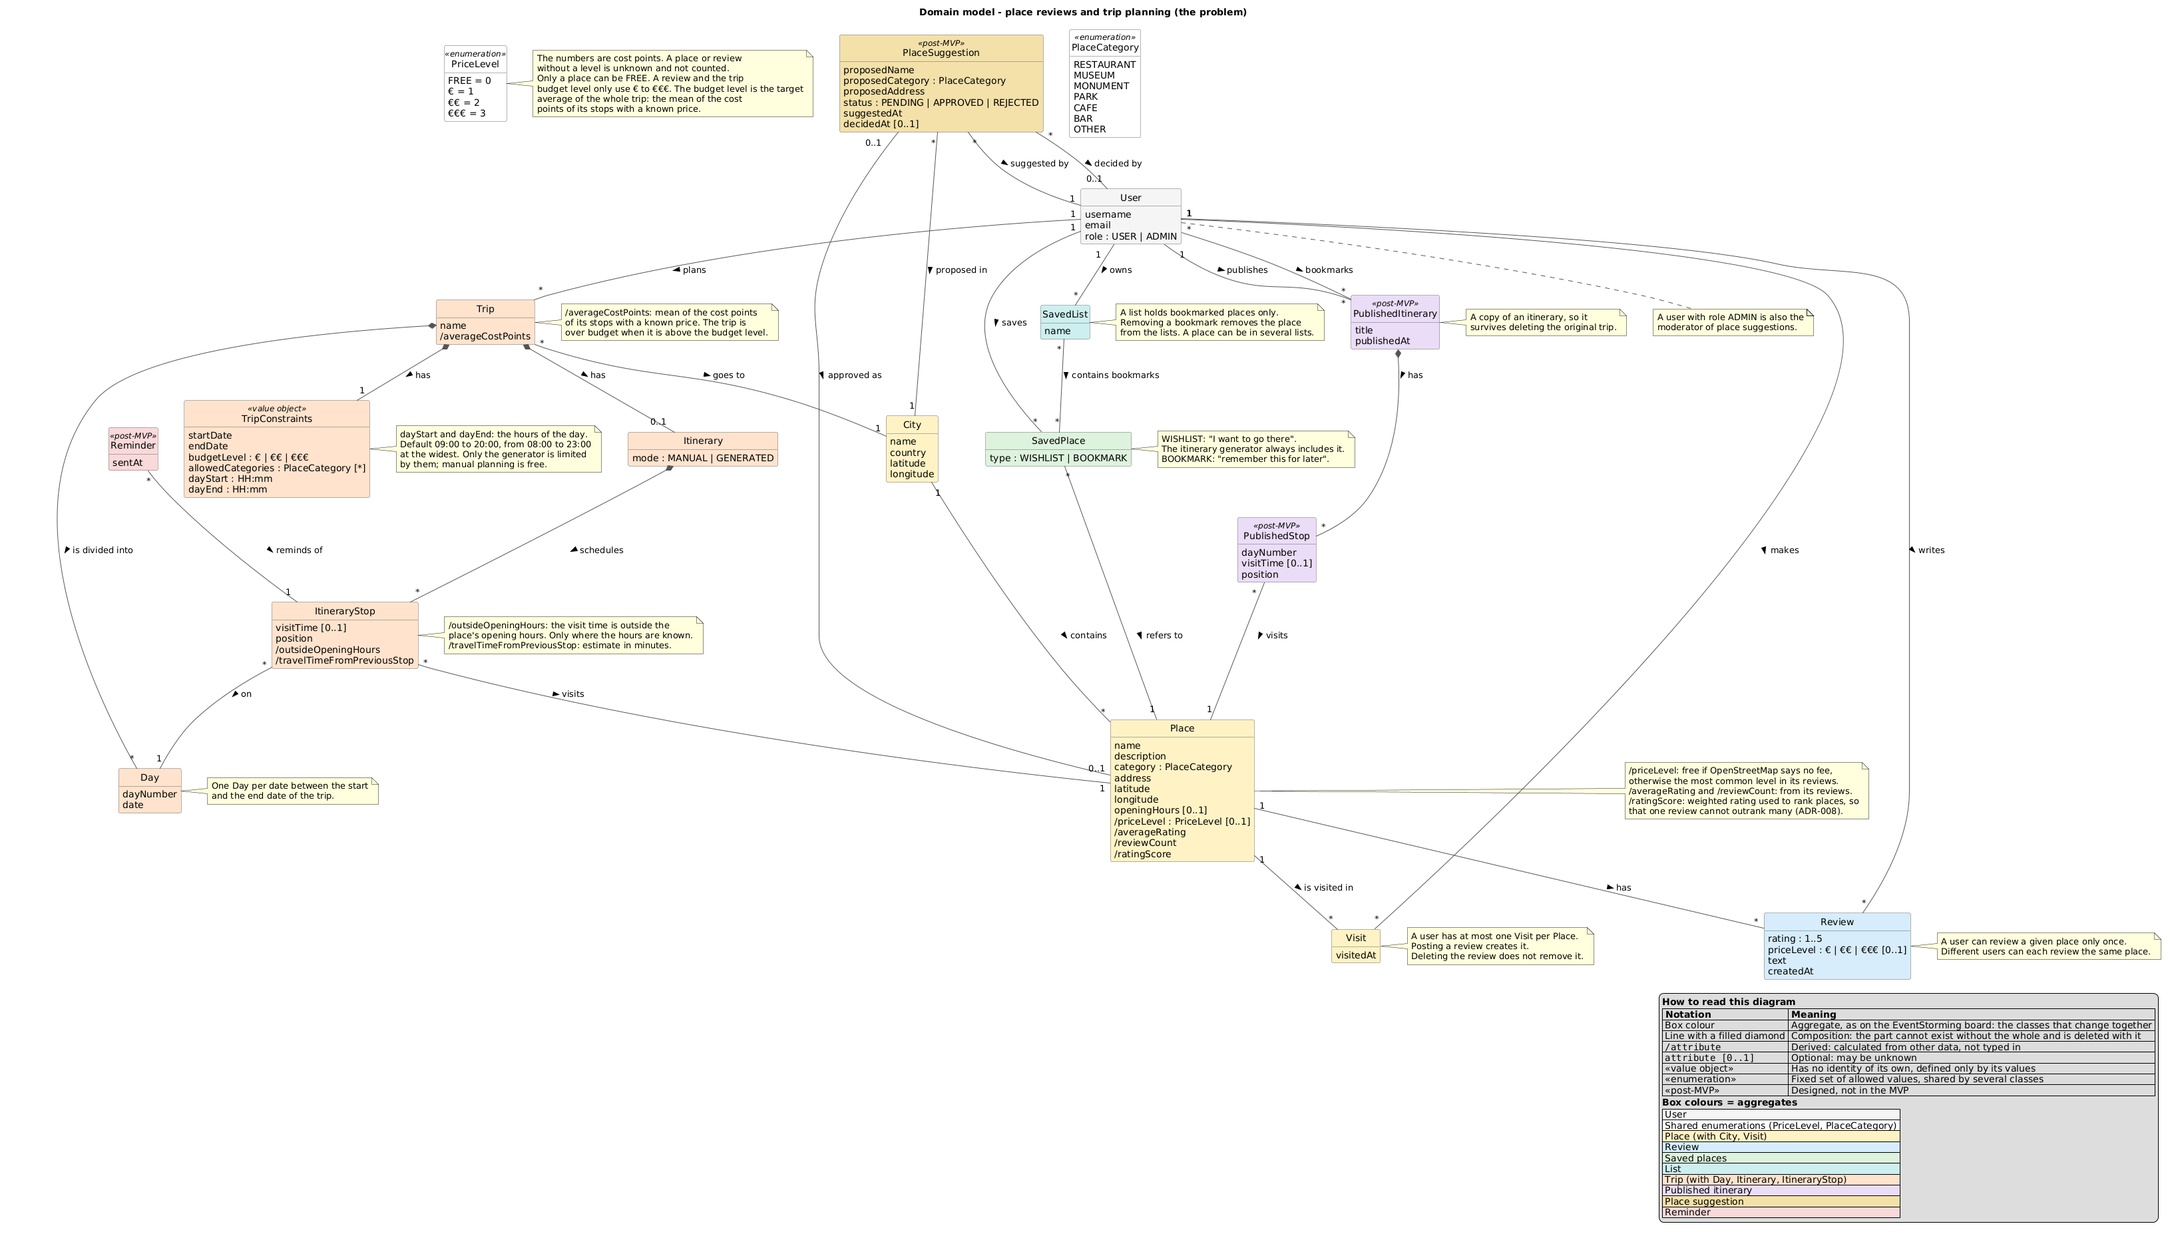
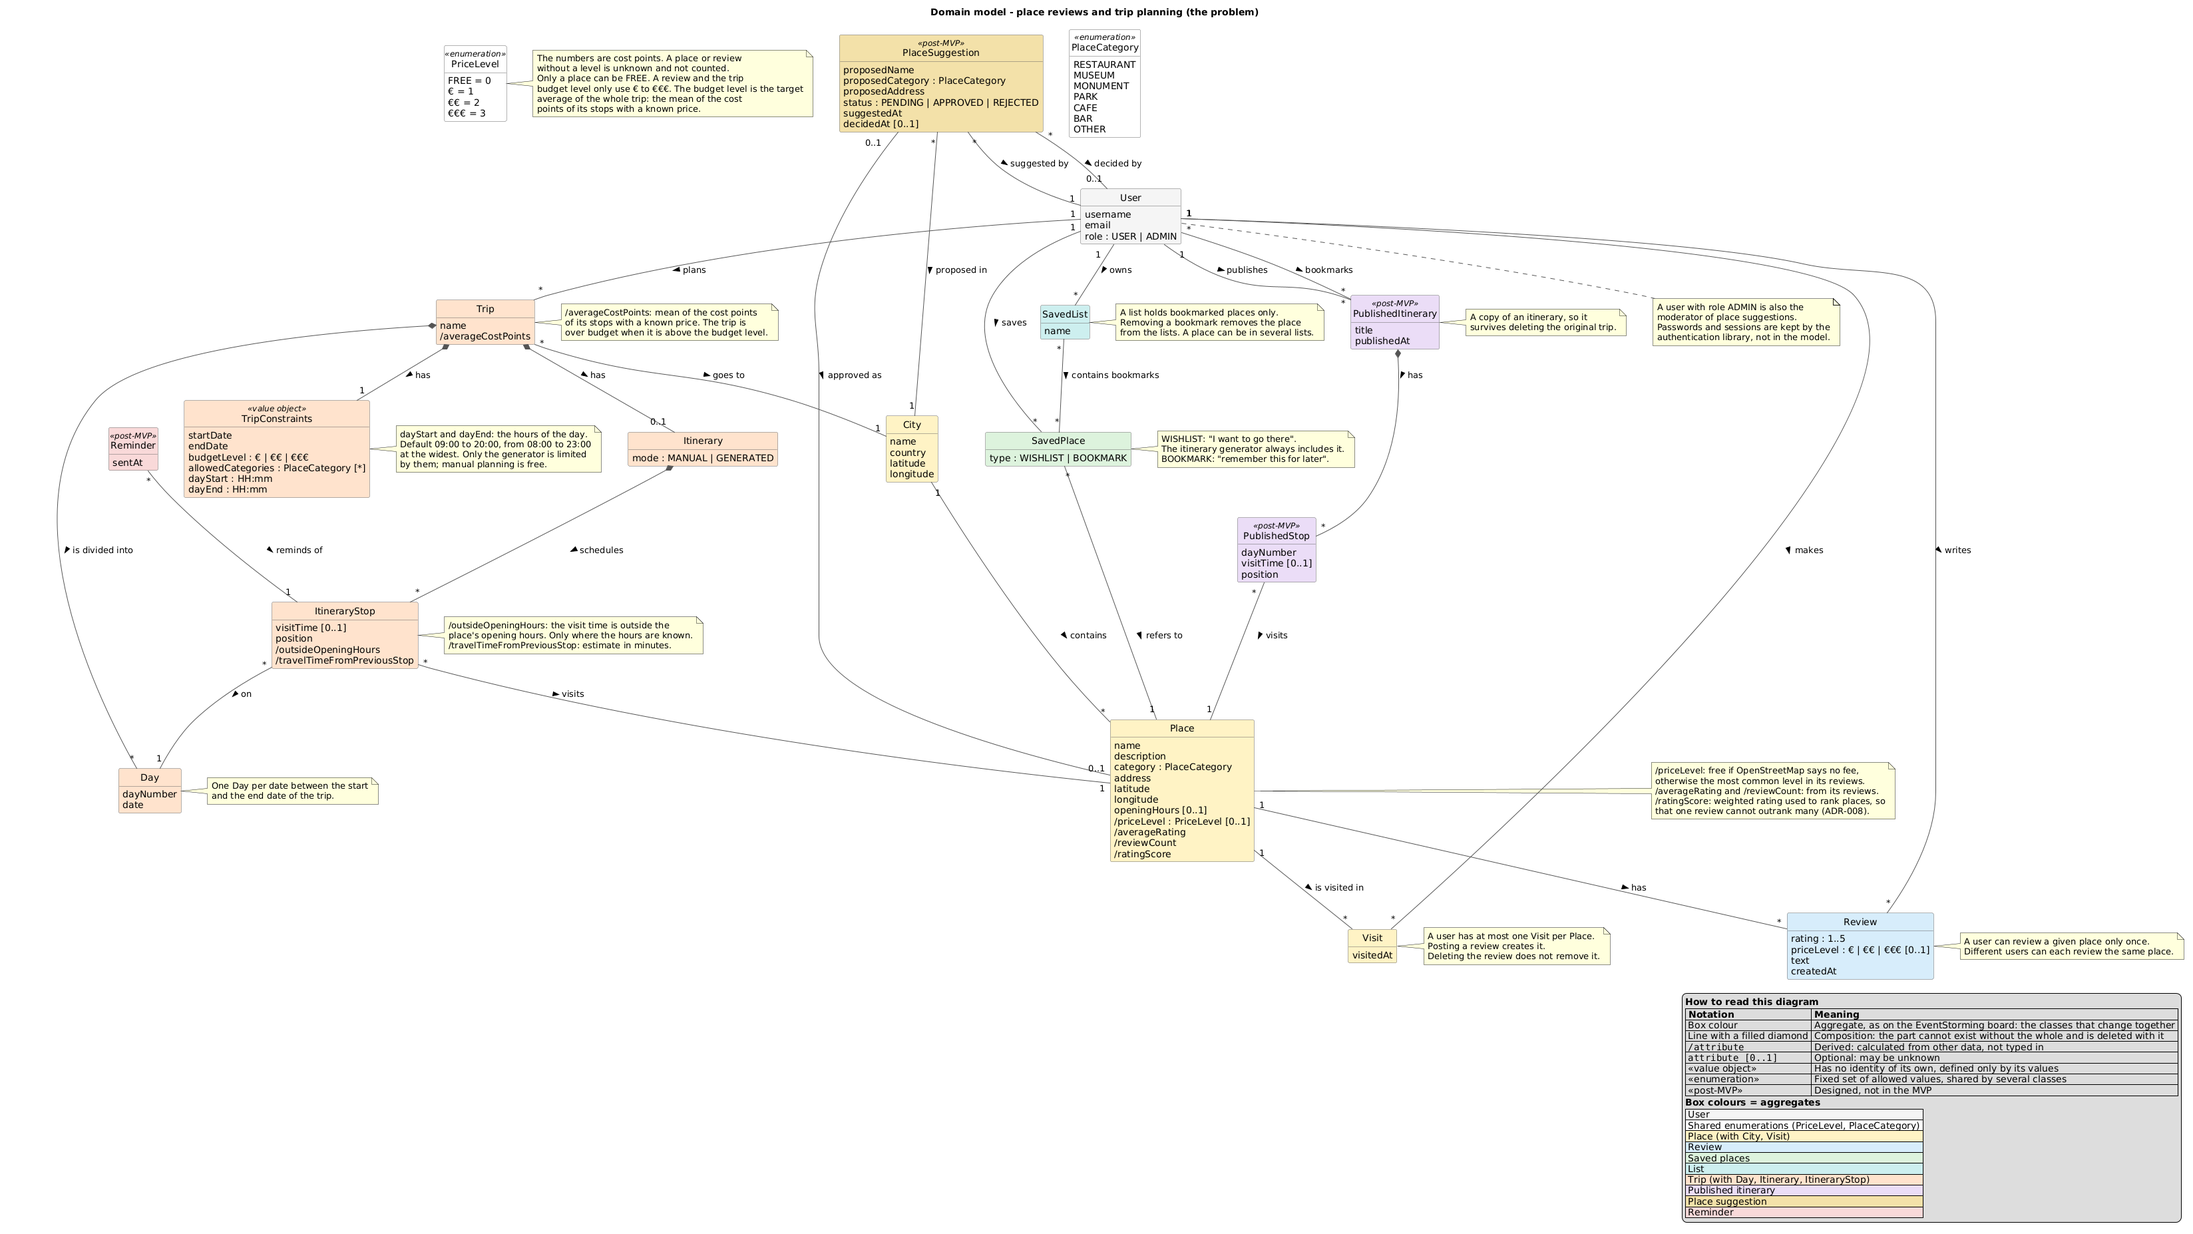
Decide authentication with Better Auth (ADR-009)
Better Auth with the Prisma adapter, e-mail and password and the username plugin; database sessions, hashing and rate limiting by the library. Updates the stories A1-01, A1-02 and B2-01, mvp.md, the README, deployment.md, the component diagram and the domain model. A spike confirms the open points before coding.

diff --git a/docs/design.md b/docs/design.md
@@ -171,7 +171,7 @@ Terms are defined in the [glossary](GLOSSARY.md).
 Design notes:
 
 - The model leaves out on purpose what belongs to the solution: technical ids, the
-  stored password hash, the share token, the OpenStreetMap id and the origin of a
+  stored password hash (kept by the authentication library, ADR-009), the share token, the OpenStreetMap id and the origin of a
   place, and all operations. The database schema and the components add them.
 - Wishlist and bookmark are one class with a type, because they behave the same.
   Only the wishlist feeds the itinerary generator.
@@ -218,7 +218,7 @@ designed, not in the MVP.
 | Component            | Responsibility                                                                                                                                                               | Depends on                                                              |
 | -------------------- | ---------------------------------------------------------------------------------------------------------------------------------------------------------------------------- | ----------------------------------------------------------------------- |
 | Web App              | Browser UI for users and admins, including the map                                                                                                                           | Backend REST API, Map tiles (external)                                  |
-| Identity             | Users, authentication, roles                                                                                                                                                 | Database                                                                |
+| Identity             | Users, authentication (Better Auth, see ADR-009), roles                                                                                                                                                 | Database                                                                |
 | Place Catalog        | The whole Place aggregate: places, city search, import, opening hours, visited marker, rating recalculation and the top-rated list (live discovery of places and search outside the catalog are built but outside the committed MVP; suggestions and moderation are post-MVP) | Database, Places data source (external), Geocoding service (external) |
 | Reviews              | Post, edit and delete reviews, including the price level. Triggers _mark place visited_ and _recalculate rating_ in Place Catalog                                            | Place Catalog                                                           |
 | Saved Places         | Wishlist, bookmarks and custom lists                                                                                                                                         | Place Catalog                                                           |
@@ -268,6 +268,7 @@ truth. Domain policies are on the EventStorming board and in section 1.
 | ADR-006 | Data and development environment                          | Accepted              |
 | ADR-007 | Deployment on Vercel and Neon                             | Accepted (tested on dev and prod) |
 | ADR-008 | Rank places by a weighted rating                          | Accepted              |
+| ADR-009 | Authentication with Better Auth                           | Accepted (to confirm in a spike before coding) |
 
 ### ADR-001: Full-stack architecture with Next.js 15 App Router
 
@@ -371,3 +372,27 @@ truth. Domain policies are on the EventStorming board and in section 1.
 - **Consequences:**
   - _Positive:_ one review cannot outrank many, a place moves smoothly as it gets reviews, and the rule is one small pure function that is easy to unit test.
   - _Trade-offs:_ two constants (`m` and `C`) to explain. The order can differ from the order of the displayed averages, so the page shows the number of reviews next to the average. If the catalog gets many more reviews, `C` can become the real average of all reviews.
+
+### ADR-009: Authentication with Better Auth
+
+- **Status:** Accepted. Before coding, a short spike (a throwaway branch and the dev database) confirms the points listed at the end.
+- **Context:** The MVP needs registration, login, logout, and "every write action requires login, users can only change their own data" (see [mvp.md](mvp.md)). The prototype has none of it: the user is chosen with buttons and the review endpoint trusts a `userId` from the request body. Security code (password hashing, sessions, rate limiting) is easy to get wrong, so we prefer a maintained library to our own.
+- **Decision:** Use **Better Auth** (npm `better-auth`, pinned to an exact version, 1.7.x at the time of writing) with the Prisma adapter, e-mail and password, and the `username` plugin.
+  - _Where:_ the server instance in `src/lib/auth.ts`, the client in `src/lib/auth-client.ts`, and the library's routes under `src/app/api/auth/[...all]/route.ts`.
+  - _Passwords:_ hashed by the library (scrypt by default) and stored in its `Account` table. `User.passwordHash` is dropped. Minimum length 8, maximum 128.
+  - _Usernames:_ 3 to 30 characters, letters, numbers, underscores and dots, stored in lower case (the plugin's defaults).
+  - _Sessions:_ kept in the database (table `Session`), valid for 7 days, and revocable on the server. Logging out ends the session.
+  - _Protecting endpoints:_ every handler that writes data reads the user with `auth.api.getSession({ headers })` and answers 401 without one. The user id always comes from the session. We do not rely on middleware alone, as the library's own docs advise.
+  - _Registration contract:_ the form posts to `POST /api/register` with `{ username, email, password }`. Our own validation runs first and answers 400 with `{ errors: { username?, email?, password? } }`, a duplicate answers 409 with the same shape, and success answers 201 with the session cookie. The contract does not depend on how it is implemented.
+  - _Login:_ with e-mail or username (two library calls, chosen by the presence of "@"). The error never says whether the user exists.
+  - _Rate limiting:_ on in production by default (3 sign-in attempts per 10 seconds). Memory storage does not suit serverless, so the counters are stored in the database (table `RateLimit`).
+  - _Environment:_ `BETTER_AUTH_SECRET` (at least 32 characters, a different value for dev and prod) and `BETTER_AUTH_URL`, set in each Vercel project. Values are never committed.
+  - _Not in the MVP:_ e-mail verification, password reset, social login, two-factor authentication.
+- **Alternatives considered:**
+  - _Our own signed cookie_ (HMAC): little code, but we would own the cryptography and the session handling, and could not revoke a session.
+  - _Auth.js v5_ (NextAuth): still a beta (5.0.0-beta.32) and in maintenance mode since September 2025, when the Better Auth team took over its maintenance. Its Credentials provider has no registration, hashing or rate limiting, and its sessions are JWTs that cannot be revoked.
+  - _Hosted services_ (Clerk, WorkOS): user data lives on third-party servers, and graders would need accounts there.
+- **Consequences:**
+  - _Positive:_ a maintained, widely used library, revocable database sessions, hashing and rate limiting that we do not write ourselves, and less security code to defend.
+  - _Trade-offs:_ new tables (`Session`, `Account`, `Verification`, `RateLimit`) and new `User` columns (the library requires a `name`, which we set to the username, and `emailVerified`), through incremental migrations. The seed must create users through the library's hashing. The library is a young 1.x package, so we pin the version and upgrade deliberately.
+- **To confirm in the spike:** the cookie flags (`HttpOnly`, `SameSite`, `Secure`) and the origin checks; that e-mails are stored in lower case; mapping our `Role` enum to the library's `role` field; the `Prisma` 6 setup with `generateId` and UUID ids; that the telemetry the library can send is turned off; how the seed uses `better-auth/crypto`; and that the 401 and 409 answers match the contract above.

diff --git a/docs/user-stories.md b/docs/user-stories.md
@@ -86,9 +86,9 @@ This file is the draft that the GitHub issues are created from. Once the issues 
 
 **Business rules**
 
-- The password is stored only as a salted hash, never as plain text, and never returned by any endpoint.
+- The password is stored only as a salted hash (scrypt, by the authentication library), never as plain text, and never returned by any endpoint.
 - Username and e-mail are unique; the e-mail is compared in lower case.
-- Password minimum length is 8 characters. Username 3 to 30 characters.
+- Password minimum length is 8 characters (the library also limits it to 128). Username 3 to 30 characters, with letters, numbers, underscores and dots only, stored in lower case (the library's defaults).
 - The checks run on the server. The form checks are only a convenience.
 
 **Out of scope**
@@ -97,15 +97,17 @@ This file is the draft that the GitHub issues are created from. Once the issues 
 
 **Notes**
 
-- Open question for the team: which library handles sessions (Auth.js or a small own implementation). Decide in the first issue.
-- `User.passwordHash` already exists in the schema.
+- Decision: authentication uses Better Auth (ADR-009 in [design.md](design.md)). The library keeps the password hash in its own `Account` table and the sessions in `Session`, so this story needs a migration for its tables and new `User` columns, and `User.passwordHash` is dropped.
+- The form posts to `POST /api/register`. Success answers 201 with the session cookie, invalid input answers 400 and a duplicate answers 409, both with `{ errors: { username?, email?, password? } }`.
 
 **Issues**
 
 1. **Registration API** · covers AC1, AC2, AC3 · depends on: none
-   - Validation and unit tests for the rules above (username, e-mail, password)
-   - Password hashing helper
-   - `POST` endpoint that creates the user and starts a session
+   - Add Better Auth (`better-auth`, exact version) with the Prisma adapter, e-mail and password and the `username` plugin: `src/lib/auth.ts`, `src/lib/auth-client.ts` and the route `src/app/api/auth/[...all]/route.ts`
+   - Prisma migration for the library's tables (`Session`, `Account`, `Verification`, `RateLimit`) and the new `User` columns, and drop `User.passwordHash`
+   - Environment variables `BETTER_AUTH_SECRET` and `BETTER_AUTH_URL` in `.env.example` and in each Vercel project
+   - Validation of username, e-mail and password with one message per field, and unit tests
+   - `POST /api/register`: validate, sign the user up through the library and start the session
 2. **Registration page** · covers AC1, AC2, AC3 · depends on: Registration API
    - Form with field errors from the API
 
@@ -138,18 +140,19 @@ This file is the draft that the GitHub issues are created from. Once the issues 
 
 **Notes**
 
-- The current demo user bar must go away. The seed users have a fake hash (`hash_demo_12345`), so they cannot log in. The seed must create them with a real hash (see US-B2-01).
+- The current demo user bar must go away. The seed users have a fake hash (`hash_demo_12345`) and no library account, so they cannot log in. The seed must create them through the library (see US-B2-01).
+- Sessions are kept in the database, last 7 days and can be revoked (ADR-009). Sign-in attempts are rate limited by the library, with the counters stored in the database.
 - The reviews endpoint today takes the user id from the request body, and creates the demo users on the fly. Both must change.
 
 **Issues**
 
 1. **Session and write-endpoint guard** · covers AC4, AC5 · depends on: Registration API
-   - Session creation and reading on the server
-   - Helper that returns the current user or 401
+   - Helper that returns the current user or 401, from `auth.api.getSession({ headers })` (the library reads and checks the session)
    - Move the reviews endpoint to the session user and remove the on-the-fly demo user creation
    - Unit tests for the ownership rule
 2. **Login and logout API and UI** · covers AC1, AC2, AC3 · depends on: Session and write-endpoint guard
-   - Login and logout endpoints
+   - Login with e-mail or username: the form picks the library call by the presence of "@", and shows the same error for any wrong credentials
+   - Logout with the library's sign-out
    - Login page, username in the header, log out button
    - Replace the demo user bar
 
@@ -219,7 +222,7 @@ This file is the draft that the GitHub issues are created from. Once the issues 
 **Business rules**
 
 - Each place's `averageRating`, `reviewCount` and `priceLevel` are calculated from its reviews with the same functions the app uses.
-- Seed passwords are hashed with the same helper as registration.
+- Seed users are created through the library's password hashing (and its `Account` row), so they can log in like any user. The demo users already in the dev and prod databases get a credential account too, not only new rows.
 - No user reviews the same place twice (the rule of US-C1-01), so the seed needs at least as many demo users as the most-reviewed place has reviews.
 
 **Out of scope**
@@ -236,6 +239,9 @@ This file is the draft that the GitHub issues are created from. Once the issues 
 **Issues**
 
 1. **Seed with real hashes and rerunnable** · covers AC3, AC4 · depends on: Registration API
+   - Create the demo users with the library's password hashing and an `Account` row
+   - Give the demo users already in the databases a credential account (dev now, prod with the team's approval)
+   - Make the seed rerunnable and document the demo password in the README
 2. **Enough reviews for every city** · covers AC1, AC2 · depends on: Import the three MVP cities
 3. **Demo users and reviews without duplicates** · covers AC2 · depends on: none
    - More demo users, each reviewing a place at most once

diff --git a/docs/mvp.md b/docs/mvp.md
@@ -146,11 +146,11 @@ so that its user story can name it (see [user-stories.md](user-stories.md)).
 |---|---|
 | Access | Browser only. A teacher can use the whole app from the URL with no installation |
 | Environments | Separate dev and prod servers |
-| Security | Passwords stored hashed, every write action requires login, users can only change their own data, input is validated |
+| Security | Passwords stored hashed, every write action requires login, users can only change their own data, input is validated. Authentication with Better Auth (ADR-009 in [design.md](design.md)) |
 | Compatibility | Latest Chrome, Firefox, Edge and Safari; usable on a phone-width screen |
 | Map | Follows the OpenStreetMap tile usage policy (attribution, no bulk or offline use), or uses a provider that allows our usage |
 | Licensing | OpenStreetMap attribution shown |
-| Tech stack | One Next.js app (React UI and server side in the same project), PostgreSQL accessed through Prisma |
+| Tech stack | One Next.js app (React UI and server side in the same project), PostgreSQL accessed through Prisma, authentication with Better Auth |
 | Development setup | Target: developed in VS Code inside a dev container, with one container for the app and one for the database, started together (planned, not built yet). Today: Docker Compose runs the database and the app runs on the developer's machine |
 | Understandability | Every team member can explain the design and code, including anything written with AI help |
 

diff --git a/docs/deployment.md b/docs/deployment.md
@@ -43,7 +43,10 @@ Status: the dev path was tested on 21 Oct 2026, first with a hello-world app (bo
    "User not found" on a personal account.)
 3. In each project, **Settings, Environment Variables**, add `DATABASE_URL` (the
    **pooled** string) for the Production environment: the prod string in `les-group7`,
-   the dev string in `les-group7-dev`.
+   the dev string in `les-group7-dev`. Once authentication is deployed (ADR-009), add in the
+   same place `BETTER_AUTH_SECRET` (a random value of at least 32 characters, **different** in
+   each project, for example from `openssl rand -base64 32`) and `BETTER_AUTH_URL` (the address
+   of that site). Never commit or print these values.
 4. Write down the `orgId` (the same for both) and the two `projectId`s from `.vercel/project.json`.
 5. Create an access token on vercel.com/account/tokens. **Scope: choose the team, then "All Projects".** A token limited to one project cannot see the other project, and gives confusing errors ("Project not found", "User not found"). Set an expiry after the final release.
 

diff --git a/README.md b/README.md
@@ -37,6 +37,7 @@ Every push to `dev` or `main` deploys through GitHub Actions (see [deployment](d
 | **Framework & App** | Next.js 15 (App Router) + React 19 + TypeScript | Full-stack architecture, SSR & Client components              |
 | **Styling & UI**    | Tailwind CSS + Shadcn UI + Lucide Icons         | Accessible, responsive component design system                |
 | **ORM & Database**  | Prisma ORM + PostgreSQL 18 (Docker locally, Neon in the cloud) | Relational persistence, migrations, and type-safe queries |
+| **Authentication**  | Better Auth (e-mail and password, username, database sessions) | Accounts, login, sessions and login rate limiting (ADR-009) |
 | **Testing**         | Vitest                                          | Fast unit testing for domain algorithms (`/tdd`)              |
 | **Mapping**         | Leaflet (`react-leaflet`) + OpenStreetMap tiles | Interactive city map with markers, popups, and rating trigger |
 
